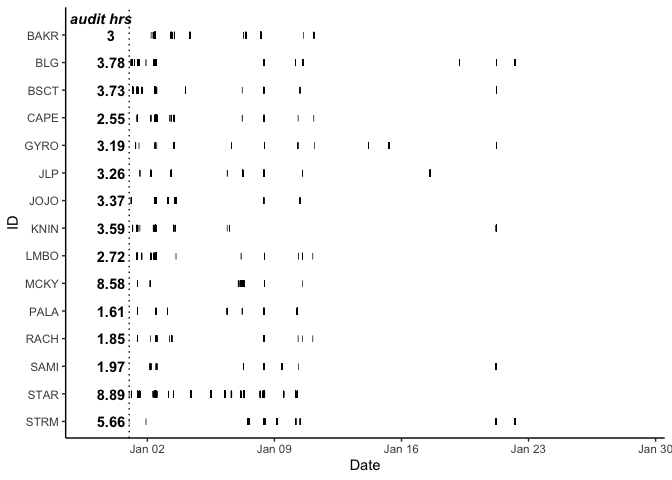
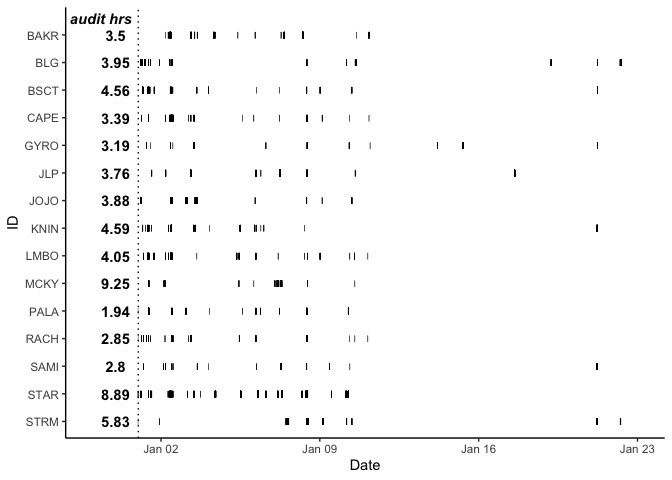
update README

diff --git a/README.md b/README.md
@@ -1,9 +1,9 @@
 # Hyena cc23 labeling status
-Last updated on May 27, 2024
+Last updated on June 03, 2024
 
 ### Current state
 
-There are 5.25 hours of calls in 57.74 hours of total audit time.
+There are 5.38 hours of calls in 66.43 hours of total audit time.
 
 ### Labels by date and id
 
@@ -15,19 +15,19 @@ There are 5.25 hours of calls in 57.74 hours of total audit time.
 
 | call | total_count |  foc |  non | unf | total_duration | total_inds | total_audits |
 |:-----|------------:|-----:|-----:|----:|---------------:|-----------:|-------------:|
-| whp  |        2937 | 1133 | 1782 |  18 |        4182.97 |         15 |          152 |
-| grn  |        3094 | 2083 |  905 |  92 |        3925.74 |         15 |          136 |
-| gig  |         654 |   90 |  499 |  62 |         684.01 |         15 |           78 |
-| rum  |         362 |  215 |  135 |  12 |         547.73 |         14 |           54 |
-| sql  |        1293 |  134 | 1041 | 116 |        1099.57 |         15 |           71 |
-| gwl  |         171 |   67 |   90 |  16 |         151.15 |         12 |           29 |
-| fed  |         551 |  538 |    3 |  11 |        6086.02 |         10 |           17 |
-| str  |         873 |    2 |  863 |   3 |        1016.18 |         14 |           72 |
-| oth  |        1541 |  170 | 1221 | 130 |         711.26 |         15 |          128 |
+| whp  |        3040 | 1185 | 1823 |  25 |        4296.58 |         15 |          156 |
+| grn  |        3244 | 2198 |  938 |  94 |        4124.36 |         15 |          156 |
+| gig  |         666 |  103 |  487 |  71 |         740.56 |         15 |           82 |
+| rum  |         385 |  250 |  116 |  18 |         588.32 |         15 |           66 |
+| sql  |        1256 |  139 |  997 | 118 |        1072.85 |         15 |           79 |
+| gwl  |         164 |   68 |   81 |  17 |         145.44 |         13 |           30 |
+| fed  |         550 |  548 |    3 |   0 |        6085.40 |         10 |           17 |
+| str  |         880 |    2 |  870 |   3 |        1031.89 |         15 |           78 |
+| oth  |        1569 |  199 | 1192 | 158 |         749.52 |         15 |          158 |
+| fus  |          49 |   16 |   28 |   3 |          74.95 |         10 |           25 |
+| seq  |          99 |   34 |   53 |  14 |         195.45 |         13 |           37 |
+| unk  |         355 |    8 |   86 |   7 |         261.18 |         15 |           94 |
 | syn  |          11 |    0 |    0 |   0 |           4.52 |          3 |            4 |
-| fus  |          46 |   14 |   28 |   3 |          70.81 |         10 |           25 |
-| seq  |         101 |   35 |   54 |  14 |         197.84 |         13 |           38 |
-| unk  |         331 |    8 |   73 |   7 |         257.02 |         14 |           78 |
 
 ### Start and end of audit issues
 
@@ -35,9 +35,16 @@ These audits have issues with start and end of audit:
 
 | audit | issue                        |
 |:------|:-----------------------------|
+| 320   | audit not bounded by soa/eoa |
 | 414   | audit not bounded by soa/eoa |
 | 188   | audit not bounded by soa/eoa |
+| 330   | audit not bounded by soa/eoa |
+| 253   | audit not bounded by soa/eoa |
+| 334   | too many soa and eoa         |
 | 9     | audit not bounded by soa/eoa |
+| 333   | too many soa and eoa         |
+| 254   | audit not bounded by soa/eoa |
+| 305   | audit not bounded by soa/eoa |
 | 412   | audit not bounded by soa/eoa |
 | 66    | audit not bounded by soa/eoa |
 | 75    | audit not bounded by soa/eoa |
